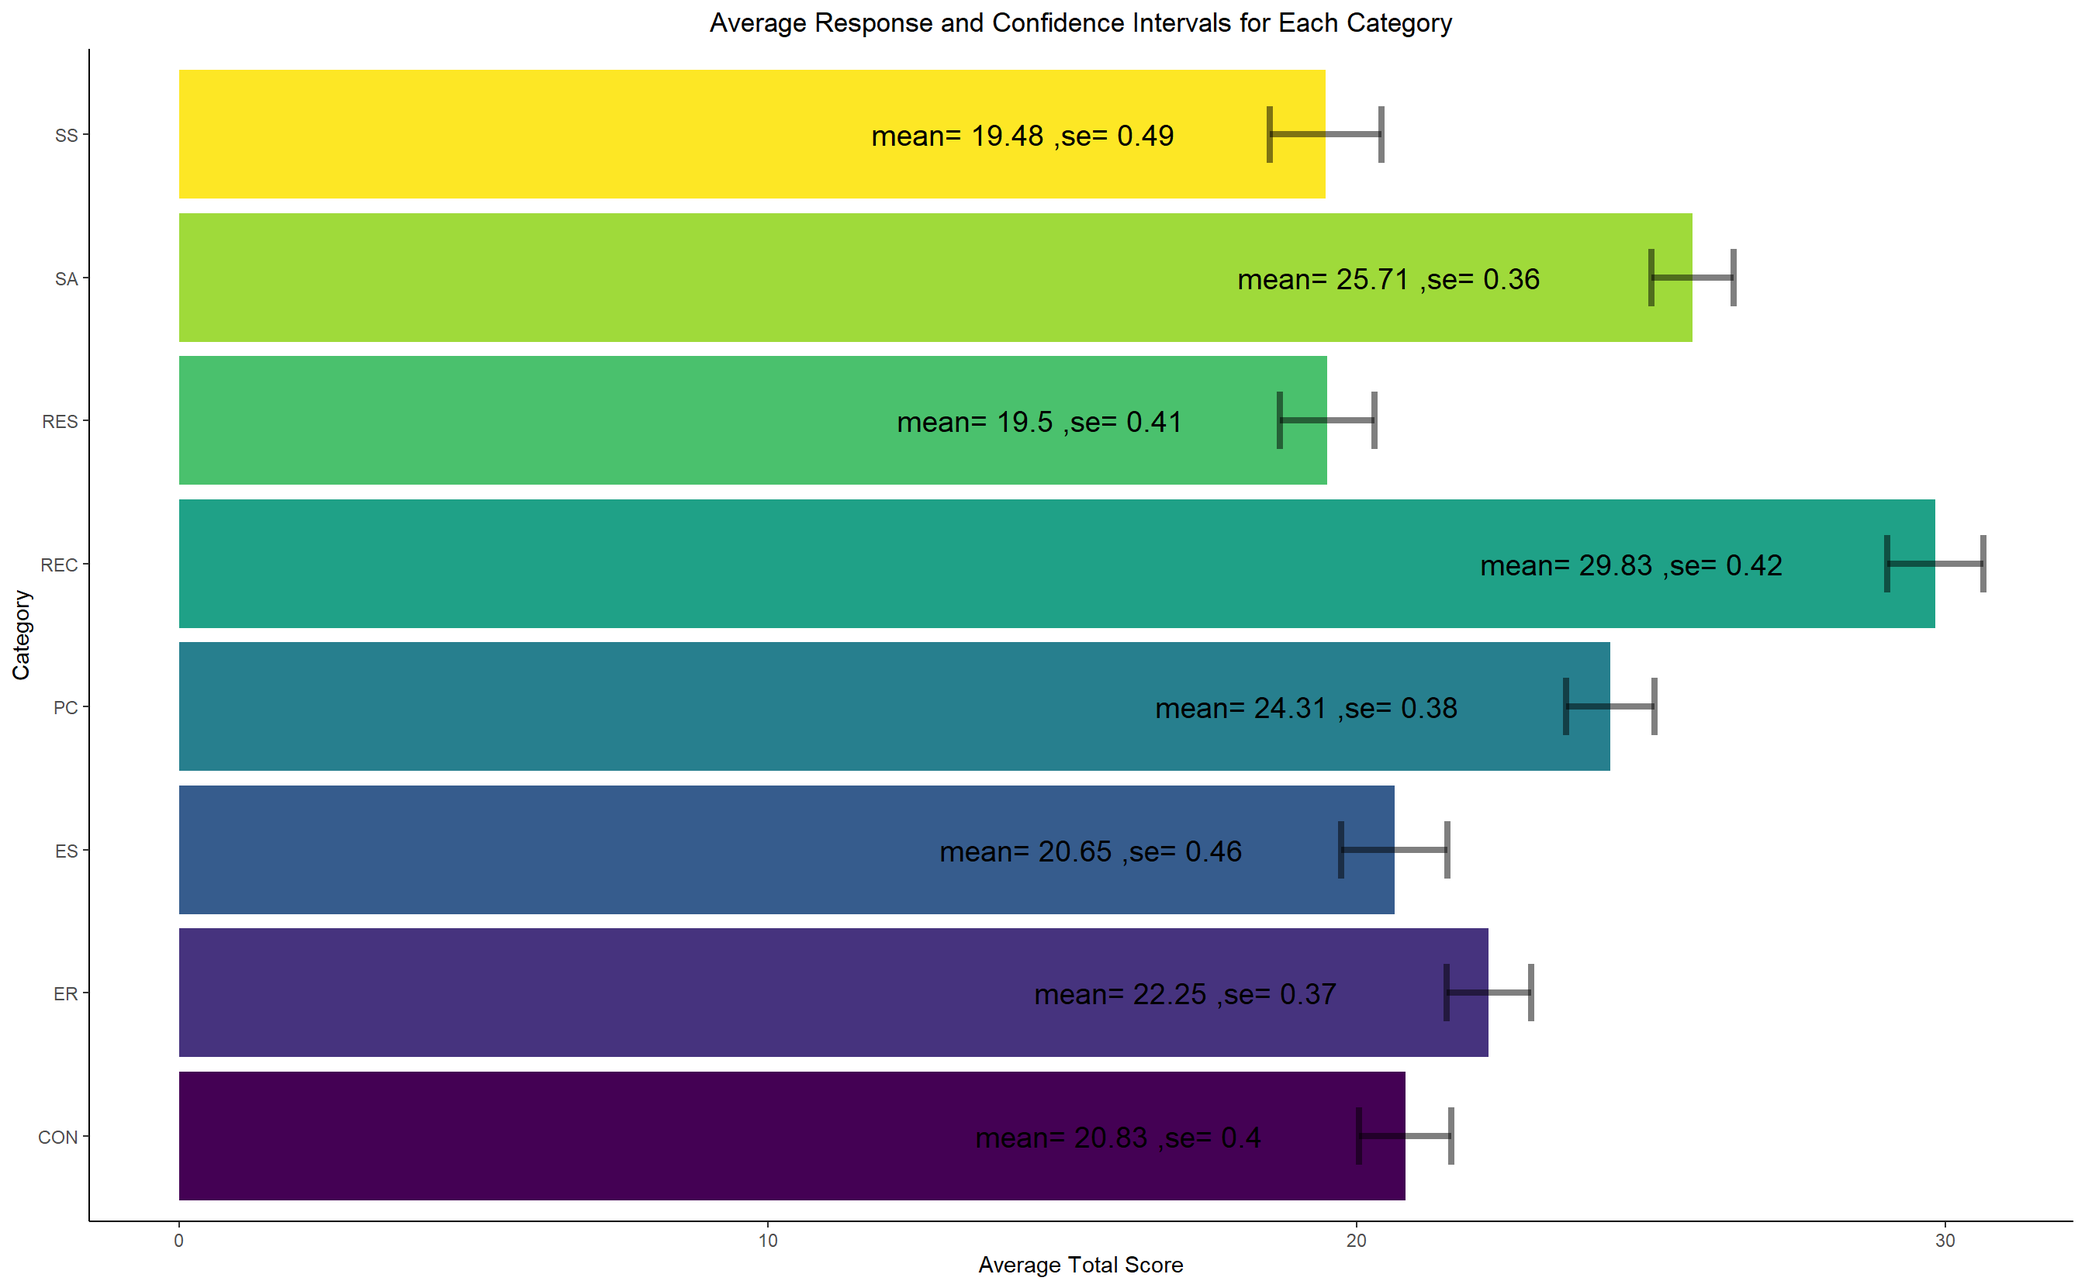
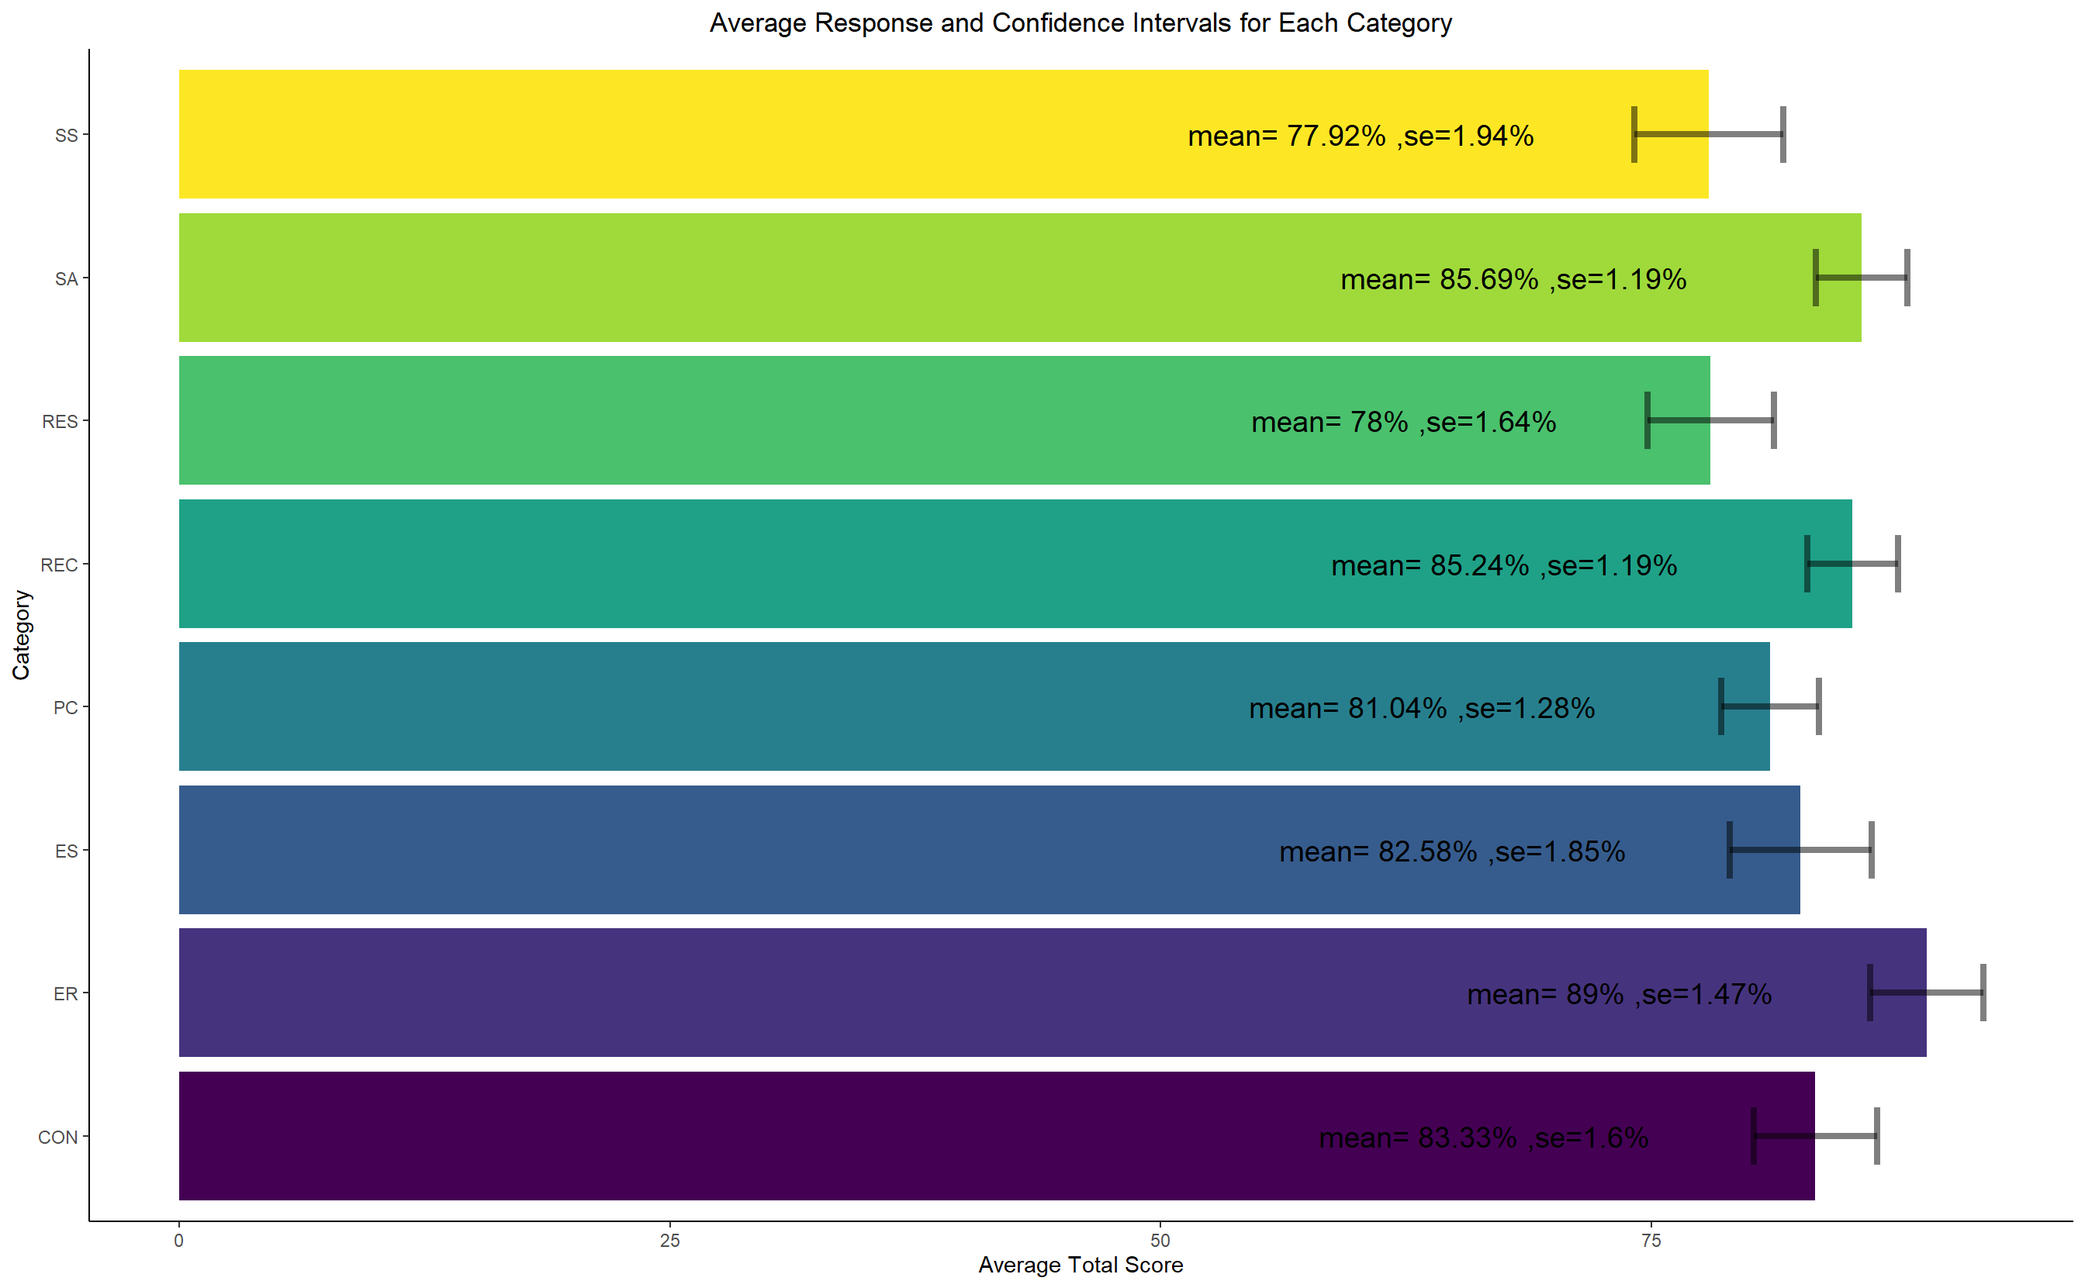
render upto modeling

diff --git a/docs/results.html b/docs/results.html
@@ -23,7 +23,7 @@
 <meta name="author" content="Rishi Dey Chowdhury" />
 
 
-<meta name="date" content="2022-05-06" />
+<meta name="date" content="2022-05-07" />
 
   <meta name="viewport" content="width=device-width, initial-scale=1" />
   <meta name="apple-mobile-web-app-capable" content="yes" />
@@ -93,6 +93,7 @@
 <ul>
 <li class="chapter" data-level="3.1" data-path="results.html"><a href="results.html#visualization"><i class="fa fa-check"></i><b>3.1</b> Visualization</a></li>
 <li class="chapter" data-level="3.2" data-path="results.html"><a href="results.html#inference"><i class="fa fa-check"></i><b>3.2</b> Inference</a></li>
+<li class="chapter" data-level="3.3" data-path="results.html"><a href="results.html#modeling"><i class="fa fa-check"></i><b>3.3</b> Modeling</a></li>
 </ul></li>
 <li class="divider"></li>
 <li><a href="https://github.com/rstudio/bookdown" target="blank">Published with bookdown</a></li>
@@ -129,7 +130,7 @@
 </ul>
 <p><img src="bookdownproj_files/figure-html/corplot_all_items-1.png" width="1344" /></p>
 <ul>
-<li>We now look at the pairwise correlation between the domain scores of individuals, we look at the results based on the gender to see how each gender’s domain scores correlate. Since, <strong>all the domains are closely related to environmental attitude of an individual it is natural to expect that if a person scores high in any one domain he is likely to have higher pro-environmental attitude overall</strong> (see later for verification of this claim from the sample) <strong>and hence have high scores in the other domains too.</strong> Thus, <strong>we see all the domain scores are highly correlated and the correlation strength are similar for both the genders</strong>. The regression line fit also reveals positive slope. Hence, our sample adheres to what we believe. The purple denotes Female and yellow denotes Male.</li>
+<li>We now look at the pairwise correlation between the domain scores of individuals, we look at the results based on the gender to see how each gender’s domain scores correlate. Since, <strong>all the domains are closely related to environmental attitude of an individual it is natural to expect that if a person scores high in any one domain he is likely to have higher pro-environmental attitude overall</strong> (see later for verification of this claim from the sample) <strong>and hence have high scores in the other domains too.</strong> Thus, <strong>we see all the domain scores are highly correlated and the correlation strength are similar for both the genders</strong>. The regression line fit also reveals positive slope, which means <strong>higher score in one domain is likely to imply higher score in other domains and hence overall higher pro-environmental attitude</strong>(check further in the study to see this idea explored more). Some disparity in few lines is solely due to limited sample. Hence, our sample adheres to what we believe. The purple denotes Female and yellow denotes Male.</li>
 </ul>
 <p><img src="bookdownproj_files/figure-html/pair_plot-1.png" width="1344" /></p>
 <ul>
@@ -152,12 +153,38 @@
 </ul>
 <p><img src="bookdownproj_files/figure-html/each_item_each_domain-1.png" width="1344" /></p>
 <ul>
-<li>We see similar results as the above one from the net score in each domain. We see that that the average net score in each domain is just 5 less than than the total score that can be obtained in that domain. The small 95% confidence interval makes us believe more that the sample average is very good standing at above 80% of the total score. Hence, in <strong>every domain we see high levels of awareness and hence high pro-environmental attitude.</strong></li>
+<li>We see similar results as the above one from the net score in each domain. We see that that the average net score in each domain is just 5 less than than the total score that can be obtained in that domain. The small 95% confidence interval makes us believe more that the sample average is very good standing at above 75% of the total score. Hence, in <strong>every domain we see high levels of awareness and hence high pro-environmental attitude.</strong></li>
 </ul>
 <p><img src="bookdownproj_files/figure-html/each_domain-1.png" width="1344" /></p>
 <ul>
-<li>We will now see whether the males and females have different take on pro-environmental attitude. To do this analysis we frame our null hypothesis that males and females on an average don’t differ in pro-environmental attitude. We test this null against a two-sided alternative. We carried a two-sample t-test and found out that we are not able to reject the null hypothesis. Hence, we conclude that <strong>there is not enough statistical evidence that male and female differ on their take in pro-environmental attitude</strong>. So, just as were doing from the start, we won’t differentiate between male and female scores. We also made</li>
+<li>We will now see whether the males and females have different take on pro-environmental attitude. To do this analysis we frame our null hypothesis that males and females on an average don’t differ in pro-environmental attitude. We test this null against a two-sided alternative. We carried a two-sample t-test and found out that we are not able to reject the null hypothesis. Hence, we conclude that <strong>there is not enough statistical evidence that male and female differ on their take in pro-environmental attitude</strong>. So, just as were doing from the start, we won’t differentiate between male and female scores. We also test the null hypothesis of the people living in joint family and nuclear family having same pro-environmental attitude against the two-sided alternative. We again find that <strong>there is not enough statistical evidence that people belonging to joint family and nuclear family differ on their take in pro-environmental attitude</strong>. We find that the average pro-environmental score of most of the domains are almost similar i.e. conducting the one-factor ANOVA test for equality of means we find that <strong>there is not enough statistical evidence to reject the fact that the means of all the domain scores are different</strong>. <strong>I strongly believe that these tests are limited by the sample size and if we had access to a bigger sample the means of all the domain scores in a single one-factor ANOVA test would come out to be same</strong>.</li>
 </ul>
+<p><img src="bookdownproj_files/figure-html/boxplots-1.png" width="1344" /></p>
+<p>With this we conclude the inference section of our study. We will use the insights gained from this section and the previous section to guide our data analysis further in the next sections.</p>
+</div>
+<div id="modeling" class="section level2 hasAnchor" number="3.3">
+<h2><span class="header-section-number">3.3</span> Modeling<a href="results.html#modeling" class="anchor-section" aria-label="Anchor link to header"></a></h2>
+<p>In this section, we will see the dependence of one domain score on the other domain scores, the item scores on the domain scores and domain scores on the total scores. This will help us identify which domain score is the most differentiating so as to get higher pro-environmental scores. It is important because those are the domains we need to improve so as to achieve better total scores. We won’t be fitting complicated black box models as our goal is not to predict the pro-environmental attitude of a student rather we want to draw inferences from the models. Linear Models fit perfectly in that sense.</p>
+<ul>
+<li>First, we start by looking at the domain score’s dependence on the other domain scores. This will help us get an idea of how knowing that one person scores in all the domains except one will perform in the left out domain. From the coefficient forest plot below we see that most of the coefficients in the significant linear model have high positive values except one(which on inspecting the 95% C.I. indicated by the horizontal line across each estimate reveals it to be insignificant with high p-value). Thus, <strong>if a person has high scores in all the domains, it is expected and observed that he will have high scores in the rest of the domain</strong>. We also observe all the other domain scores explains the variability of RES, REC, CON and ER domain score(looking at the model R-squared values, these are above 60%) very well. It also gives us important information that <strong>if we can foster education among students on the domains they are less aware of we can expect them to have improved pro-environmental score on the other domains as well</strong>. Thus, <strong>improving the awareness with special focus on SS, ES, SA and PC is needed because improving awareness on REC, REC, CON and ER won’t improve pro-environmental attitude in these domains</strong>(with low model R-square).</li>
+</ul>
+<p><img src="bookdownproj_files/figure-html/domain_on_domain_MLR-1.png" width="1536" /></p>
+<ul>
+<li>Let’s look at the dependence of the item scores on the domain score. We will look at it in two ways to better understand what’s going on. We below fit a linear regression model of each item on the domain score, so as to understand given a particular total pro-environmental score in a particular domain, what is the expected scores in each of the items of that domain. We observe <strong>increase in any item score increases the overall score in that domain</strong>(from the correlation graphs among items we know one item score increases implies other scores are likely to be high too). We observe an issue with 3 items i.e. REC2, PC1, SA1 as even when the domain score is 100%(which means all item scores for that individual must be 5) our fitted regression line predicts that item score to be 4 or slightly less than 4 this means that the students even with high pro-environmental attitude find it difficult to agree with these items and on looking at these items we understand that <strong>there is need for education and awareness on these items i.e. imparting education on upcycling old products into new and useful items(REC2), on the cost and issues of safe disposal of waste products(SA1) and managing waste around an individuals surroundings(PC1)</strong>. We also get an idea of which items are generally agreed by most of the people(even the ones with lower pro-environmental score) i.e. if we draw a vertical line in each of the plots we will get the score of each item predicted at that level of domain awareness. All the items in SS and ES have same predicted scores whereas in REC, REC1 is the highest scored; in SA, SA4 is highest scored; in PC, PC4 is highest scored; in ER, ER1 is highest scored; In RES, RES4 is highest scored and in CON, CON3 is highest scored. So, <strong>most of the students at all level of domain awareness(domain pro-environmental score) agrees that recycling is useful, proper precaution for safe disposal of waste/toxic chemical should be taken, environmental conservation is everyone’s responsibility, we can save water by closing the taps when we brush and conservation can help in creating a greener planet for future</strong>.</li>
+</ul>
+<p><img src="bookdownproj_files/figure-html/item_on_domain_LR-1.png" width="1344" /></p>
+<ul>
+<li>After we have seen the above insight, it is quite natural to ask how can we improve on the overall domain score by imparting education particular to each item. We will answer that now by looking at the dependence of Total Score in each domain on the item scores that compose it. Obviously, we see as expected that there is positive slope as increasing item score increases domain score trivially. One important thing to notice is that agreeing completely or scoring even full in one item doesn’t imply that the overall domain score is near full, it maxes out at about 90% for almost all the domains, which reinforces the fact that <strong>better broad knowledge regarding all sorts of items that comprises a domain is needed to improve the domain level awareness to near 100%</strong>. We see that is the slope of REC2, SA1, PC1, PC2, PC3, PC6, SS1 are lower compared to rest of the items which implies as of now(from our sample’s level of environmental education) that improving the take on these items would show very less increase in domain score. Thus, <strong>we need to focus in imparting education regarding upcyling, cost of disposal of waste, maintaining our surroundings to be waste free, believing in individual actions can improve climate</strong>.</li>
+</ul>
+<p><img src="bookdownproj_files/figure-html/domain_on_item_LR-1.png" width="1344" /></p>
+<ul>
+<li>Finally, we take a look on the same analysis we saw above for items conducted on domain level awareness and overall pro-environment score. We breakdown the predicted composition of the total pro-environmental attitude(overall score) in terms of the domain scores. We see that <strong>students have higher contribution in their overall pro-environmental attitude from the domain awareness of environmental reductionism</strong>. Apart from Environment Reductionism all the other domain scores maxes out at around 90% when the total score is 100%(i.e. all the domain scores should be nearer to 100%). Hence, <strong>we need awareness focusing on all the other domains of recycling, environmental safety, perceived control, social support, environmental sensitivity, reuse and conservation</strong>. It is observed that <strong>students scored lesser in social support, environmental safety and perceived control compared to other domains</strong>.</li>
+</ul>
+<p><img src="bookdownproj_files/figure-html/domain_on_overall_LR-1.png" width="1344" /></p>
+<ul>
+<li>So, as a result to see how the dependence of total scores are on the domain scores, mainly the slope will be important for us to analyse and increasing the slope would be a goal though our environmental education. It is again focused that the total score maxes out at about 90% even when all domain scores are 100%, which implies further awareness in all the domains is required. The slopes of SS and ES are low in among students so education is very important so as to increase the slope for these domains on total score is needed</li>
+</ul>
+<p><img src="bookdownproj_files/figure-html/overall_on_domain_LR-1.png" width="1344" /></p>
 
 </div>
 </div>

diff --git a/docs/index.html b/docs/index.html
@@ -23,7 +23,7 @@
 <meta name="author" content="Rishi Dey Chowdhury" />
 
 
-<meta name="date" content="2022-05-06" />
+<meta name="date" content="2022-05-07" />
 
   <meta name="viewport" content="width=device-width, initial-scale=1" />
   <meta name="apple-mobile-web-app-capable" content="yes" />
@@ -93,6 +93,7 @@
 <ul>
 <li class="chapter" data-level="3.1" data-path="results.html"><a href="results.html#visualization"><i class="fa fa-check"></i><b>3.1</b> Visualization</a></li>
 <li class="chapter" data-level="3.2" data-path="results.html"><a href="results.html#inference"><i class="fa fa-check"></i><b>3.2</b> Inference</a></li>
+<li class="chapter" data-level="3.3" data-path="results.html"><a href="results.html#modeling"><i class="fa fa-check"></i><b>3.3</b> Modeling</a></li>
 </ul></li>
 <li class="divider"></li>
 <li><a href="https://github.com/rstudio/bookdown" target="blank">Published with bookdown</a></li>
@@ -116,7 +117,7 @@
 <div id="header">
 <h1 class="title">Pro-Environmental Attitude Analysis</h1>
 <p class="author"><em>Rishi Dey Chowdhury</em></p>
-<p class="date"><em>2022-05-06</em></p>
+<p class="date"><em>2022-05-07</em></p>
 </div>
 <div id="introduction" class="section level1 hasAnchor" number="1">
 <h1><span class="header-section-number">Chapter 1</span> Introduction<a href="index.html#introduction" class="anchor-section" aria-label="Anchor link to header"></a></h1>

diff --git a/docs/data-overview.html b/docs/data-overview.html
@@ -23,7 +23,7 @@
 <meta name="author" content="Rishi Dey Chowdhury" />
 
 
-<meta name="date" content="2022-05-06" />
+<meta name="date" content="2022-05-07" />
 
   <meta name="viewport" content="width=device-width, initial-scale=1" />
   <meta name="apple-mobile-web-app-capable" content="yes" />
@@ -93,6 +93,7 @@
 <ul>
 <li class="chapter" data-level="3.1" data-path="results.html"><a href="results.html#visualization"><i class="fa fa-check"></i><b>3.1</b> Visualization</a></li>
 <li class="chapter" data-level="3.2" data-path="results.html"><a href="results.html#inference"><i class="fa fa-check"></i><b>3.2</b> Inference</a></li>
+<li class="chapter" data-level="3.3" data-path="results.html"><a href="results.html#modeling"><i class="fa fa-check"></i><b>3.3</b> Modeling</a></li>
 </ul></li>
 <li class="divider"></li>
 <li><a href="https://github.com/rstudio/bookdown" target="blank">Published with bookdown</a></li>
@@ -232,7 +233,7 @@
 <div style="border: 1px solid #ddd; padding: 0px; overflow-y: scroll; height:500px; overflow-x: scroll; width:100%; ">
 <table class="table" style="margin-left: auto; margin-right: auto;">
 <caption>
-(#tab:display_raw_data)First few rows of the Pro-Environmental Attitude Survey Response Data
+(#tab:display_raw_data)Collected Response of College Students of India on Pro-Environmental Attitude Questionnaire
 </caption>
 <thead>
 <tr>

diff --git a/docs/404.html b/docs/404.html
@@ -23,7 +23,7 @@
 <meta name="author" content="Rishi Dey Chowdhury" />
 
 
-<meta name="date" content="2022-05-06" />
+<meta name="date" content="2022-05-07" />
 
   <meta name="viewport" content="width=device-width, initial-scale=1" />
   <meta name="apple-mobile-web-app-capable" content="yes" />
@@ -93,6 +93,7 @@
 <ul>
 <li class="chapter" data-level="3.1" data-path="results.html"><a href="results.html#visualization"><i class="fa fa-check"></i><b>3.1</b> Visualization</a></li>
 <li class="chapter" data-level="3.2" data-path="results.html"><a href="results.html#inference"><i class="fa fa-check"></i><b>3.2</b> Inference</a></li>
+<li class="chapter" data-level="3.3" data-path="results.html"><a href="results.html#modeling"><i class="fa fa-check"></i><b>3.3</b> Modeling</a></li>
 </ul></li>
 <li class="divider"></li>
 <li><a href="https://github.com/rstudio/bookdown" target="blank">Published with bookdown</a></li>
